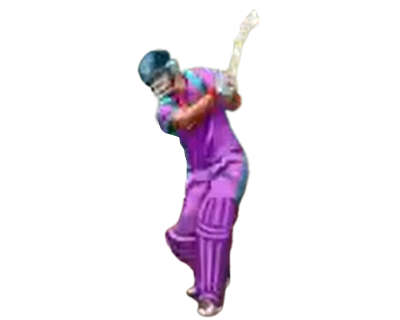
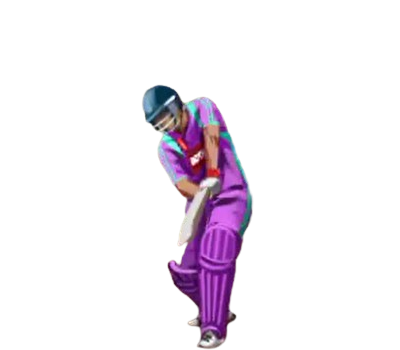
bowler added

Changed region(s): [[0.33, 0.0312, 0.66, 1.0]]

diff --git a/sprites.py b/sprites.py
@@ -1,6 +1,21 @@
-# MODULES
 import pygame
 from settings import *
+
+# FUNCTIONS
+
+def get_frames(player,action,scale=None):
+    # taking all the frames in a dictionary
+    frames, c = {}, 0
+    while True:
+        try:
+            file = f'graphics/{player}/{action}/frame-{c+1}.png'
+            frame = pygame.image.load(file).convert_alpha()
+            if scale != None:
+                frame = pygame.transform.scale(frame, scale)
+            frames[c] = frame
+            c+=1
+        except: break
+    return frames
 
 
 # SPRITES
@@ -9,40 +24,32 @@ class BATSMAN(pygame.sprite.Sprite):
 
     """
         SPRITE DESCRIPTION 
-        a single sprite for the player
+        a single batsman sprite for the player
     """
     def __init__(self):
         super().__init__()
-        self.animation_state = "start"
-        self.get_frames("batsman", "start")
 
         # class vaiables
         self.sign = 1        
         self.t = 0
         self.key_pressed = False
 
+        self.animation_state = "start"
+        self.update_frames("start")
+
     """ 
         get the correct images for the animation as frames
-        anomations have either 4 or 5 frames 
+        animations have either 4 or 5 frames 
     """
-    def get_frames(self, player, action):
+    def update_frames(self, action):
 
         # dictionary containing frames
-        self.frames = {}
+        self.frames = get_frames("batsman",action,scale=(225,197))
         self.frame_index = 0
-
-        # taking all the frames in a dictionary
-        for i in range(10):
-            try:
-                file = f'graphics/{player}/{action}/frame-{i+1}.png'
-                frame = pygame.image.load(file).convert_alpha()
-                frame = pygame.transform.scale(frame, (225,197))
-                self.frames[i] = frame
-            except: pass
 
         # animation order
         self.image = self.frames[int(self.frame_index)]  
-        self.rect = self.image.get_rect(midbottom=pitch_mid_point)
+        self.rect = self.image.get_rect(midbottom=pitch_top_point)
 
     """
         check player input
@@ -50,7 +57,7 @@ class BATSMAN(pygame.sprite.Sprite):
     def player_input(self):
         keys = pygame.key.get_pressed()
         if keys[pygame.K_SPACE] and self.animation_state == "waiting":
-            self.get_frames("batsman", "straight-loft")
+            self.update_frames("straight-loft")
             self.animation_state = "shot" 
             self.sign = 1
 
@@ -64,7 +71,7 @@ class BATSMAN(pygame.sprite.Sprite):
             if self.frame_index < 1: self.frame_index += 0.01
             elif 1 <= self.frame_index < 3: self.frame_index += 0.2 
             elif self.frame_index >= 3: 
-                self.get_frames("batsman", "waiting")
+                self.update_frames("waiting")
                 self.animation_state = "waiting"
 
         elif self.animation_state == "waiting":
@@ -87,7 +94,7 @@ class BATSMAN(pygame.sprite.Sprite):
         elif self.animation_state == "shot":
 
             if self.sign == -1: 
-                self.get_frames("batsman", "start")
+                self.update_frames("start")
                 self.animation_state = "start"
                 self.key_pressed = False
             
@@ -101,11 +108,11 @@ class BATSMAN(pygame.sprite.Sprite):
                 self.t = 0
 
             # updating the frame
-            self.frame_index += self.sign*0.2
+            self.frame_index += self.sign*0.25
 
         # updating the image 
         self.image = self.frames[int(self.frame_index)]  
-        self.rect = self.image.get_rect(midbottom=pitch_mid_point)
+        self.rect = self.image.get_rect(midbottom=pitch_top_point)
 
     """
         to update the sprite
@@ -119,11 +126,73 @@ class BATSMAN(pygame.sprite.Sprite):
 
 
 class BOWLER(pygame.sprite.Sprite):
-    def __init__(self, type):
-        pass
 
+    """
+        SPRITE DESCRIPTION 
+        a single bowler sprite for the computer
+    """
+    def __init__(self):
+        super().__init__()  
+
+        # class variables
+        self.pos = (over_the_wicket, screen_height)      
+        self.t = 0
+        self.wait = True
+
+        self.animation_state = "fast"
+        self.update_frames("fast")
+
+    """ 
+        get the correct images for the animation as frames
+        bowling animations have around 30 frames
+    """
+    def update_frames(self, action):
+
+        # dictionary containing frames
+        self.frames = get_frames("bowler",action,(355,400))
+        self.frame_index = 0
+
+        # animation order
+        self.image = self.frames[int(self.frame_index)]  
+        self.rect = self.image.get_rect(midbottom=self.pos)
+
+    """
+        get frames according to the animation playing
+        to ensure correct order of frames 
+    """
+    def animation(self):
+
+        if self.wait:
+            self.t +=1
+            if self.t >= 300:
+                self.t = 0
+                self.wait = False
+
+        else:
+            if self.frame_index >= len(self.frames)-1: 
+                self.t += 1
+                
+                # time delay after last frame
+                if self.t >= 180: 
+                    self.wait = True
+                    self.frame_index = 0
+                    self.t = 0
+                
+            else: self.frame_index += 0.25
+
+        # updating the image 
+        self.image = self.frames[int(self.frame_index)]  
+        self.rect = self.image.get_rect(midbottom=self.pos)
+
+
+    """
+        to update the sprite
+        60 frames per second
+        1 frame - 1.66 second
+    """
     def update(self):
-        pass
+        self.animation()
+
 
 
 class BALL(pygame.sprite.Sprite):

diff --git a/backup.py b/backup.py
@@ -2,6 +2,8 @@ import pygame
 from settings import *
 
 
+# SPRITES
+
 class BATSMAN(pygame.sprite.Sprite):
 
     """
@@ -24,23 +26,23 @@ class BATSMAN(pygame.sprite.Sprite):
     """
     def get_frames(self, player, action):
 
-        self.frame_1 = pygame.image.load(f'graphics/{player}/{action}/frame-1.png').convert_alpha()
-        self.frame_2 = pygame.image.load(f'graphics/{player}/{action}/frame-2.png').convert_alpha()
-        self.frame_3 = pygame.image.load(f'graphics/{player}/{action}/frame-3.png').convert_alpha()
-        self.frame_4 = pygame.image.load(f'graphics/{player}/{action}/frame-4.png').convert_alpha()
-        try: self.frame_5 = pygame.image.load(f'graphics/{player}/{action}/frame-5.png').convert_alpha()
-        except: self.frame_5 = ""
+        # dictionary containing frames
+        self.frames = {}
+        self.frame_index = 0
 
-        self.frame_1 = pygame.transform.scale(self.frame_1, (260,210))
-        self.frame_2 = pygame.transform.scale(self.frame_2, (260,210))
-        self.frame_3 = pygame.transform.scale(self.frame_3, (260,210))
-        self.frame_4 = pygame.transform.scale(self.frame_4, (260,210))
-        if self.frame_5 != "": self.frame_5 = pygame.transform.scale(self.frame_5, (260,210))
+        # taking all the frames in a dictionary
+        c = 0
+        while True:
+            try:
+                file = f'graphics/{player}/{action}/frame-{c+1}.png'
+                frame = pygame.image.load(file).convert_alpha()
+                frame = pygame.transform.scale(frame, (225,197))
+                self.frames[c] = frame
+                c+=1
+            except: break
 
         # animation order
-        self.player_index = 0
-        self.batsman = [self.frame_1, self.frame_2, self.frame_3, self.frame_4, self.frame_5]
-        self.image = self.batsman[int(self.player_index)]  
+        self.image = self.frames[int(self.frame_index)]  
         self.rect = self.image.get_rect(midbottom=pitch_mid_point)
 
     """
@@ -49,7 +51,7 @@ class BATSMAN(pygame.sprite.Sprite):
     def player_input(self):
         keys = pygame.key.get_pressed()
         if keys[pygame.K_SPACE] and self.animation_state == "waiting":
-            self.get_frames("batsman", "straight-stroke")
+            self.get_frames("batsman", "straight-loft")
             self.animation_state = "shot" 
             self.sign = 1
 
@@ -60,18 +62,18 @@ class BATSMAN(pygame.sprite.Sprite):
     def animation(self):
 
         if self.animation_state == "start":
-            if self.player_index < 1: self.player_index += 0.01
-            elif 1 <= self.player_index < 3: self.player_index += 0.2 
-            elif self.player_index >= 3: 
+            if self.frame_index < 1: self.frame_index += 0.01
+            elif 1 <= self.frame_index < 3: self.frame_index += 0.2 
+            elif self.frame_index >= 3: 
                 self.get_frames("batsman", "waiting")
                 self.animation_state = "waiting"
 
         elif self.animation_state == "waiting":
             
-            if self.player_index <= 0: 
+            if self.frame_index <= 0: 
                 self.sign = 1
 
-            elif self.player_index >= 2: 
+            elif self.frame_index >= 2: 
                 self.sign = 0
                 self.t += 1
             
@@ -81,7 +83,7 @@ class BATSMAN(pygame.sprite.Sprite):
                 self.t = 0
 
             # updating the frame
-            self.player_index += self.sign * 0.2
+            self.frame_index += self.sign * 0.2
 
         elif self.animation_state == "shot":
 
@@ -90,20 +92,20 @@ class BATSMAN(pygame.sprite.Sprite):
                 self.animation_state = "start"
                 self.key_pressed = False
             
-            elif self.player_index >= len(self.batsman)-1: 
+            elif self.frame_index >= len(self.frames)-1: 
                 self.sign = 0
                 self.t += 1
 
             # time delay after last frame
-            if self.t >= 120: 
+            if self.t >= 150: 
                 self.sign = -1
                 self.t = 0
 
             # updating the frame
-            self.player_index += self.sign*0.2
+            self.frame_index += self.sign*0.25
 
         # updating the image 
-        self.image = self.batsman[int(self.player_index)]  
+        self.image = self.frames[int(self.frame_index)]  
         self.rect = self.image.get_rect(midbottom=pitch_mid_point)
 
     """

diff --git a/main.py b/main.py
@@ -14,6 +14,9 @@ pitch = pygame.transform.scale(pitch, (screen_width, screen_height))
 player = pygame.sprite.GroupSingle()
 player.add(BATSMAN())
 
+computer = pygame.sprite.GroupSingle()
+computer.add(BOWLER())
+
 ball = pygame.sprite.GroupSingle()
 
 
@@ -28,12 +31,16 @@ while True:
                    ball.add(BALL())
         """
 
-    screen.blit(pitch, (0,0))
+    screen.blit(pitch,(0,0))
 
     player.draw(screen)
     player.update()
+    computer.draw(screen)
+    computer.update()
+
+    """
     ball.draw(screen)
     ball.update()
-
+    """
     pygame.display.update()
     clock.tick(60)

diff --git a/settings.py b/settings.py
@@ -2,4 +2,5 @@
 screen_width, screen_height = 1024, 600
 
 # cricket pitch
-pitch_mid_point = (screen_width/2 + 30, screen_height/2.85)
+pitch_top_point = (screen_width/2 + 30, screen_height/2.85)
+over_the_wicket = screen_width/2 - 90
